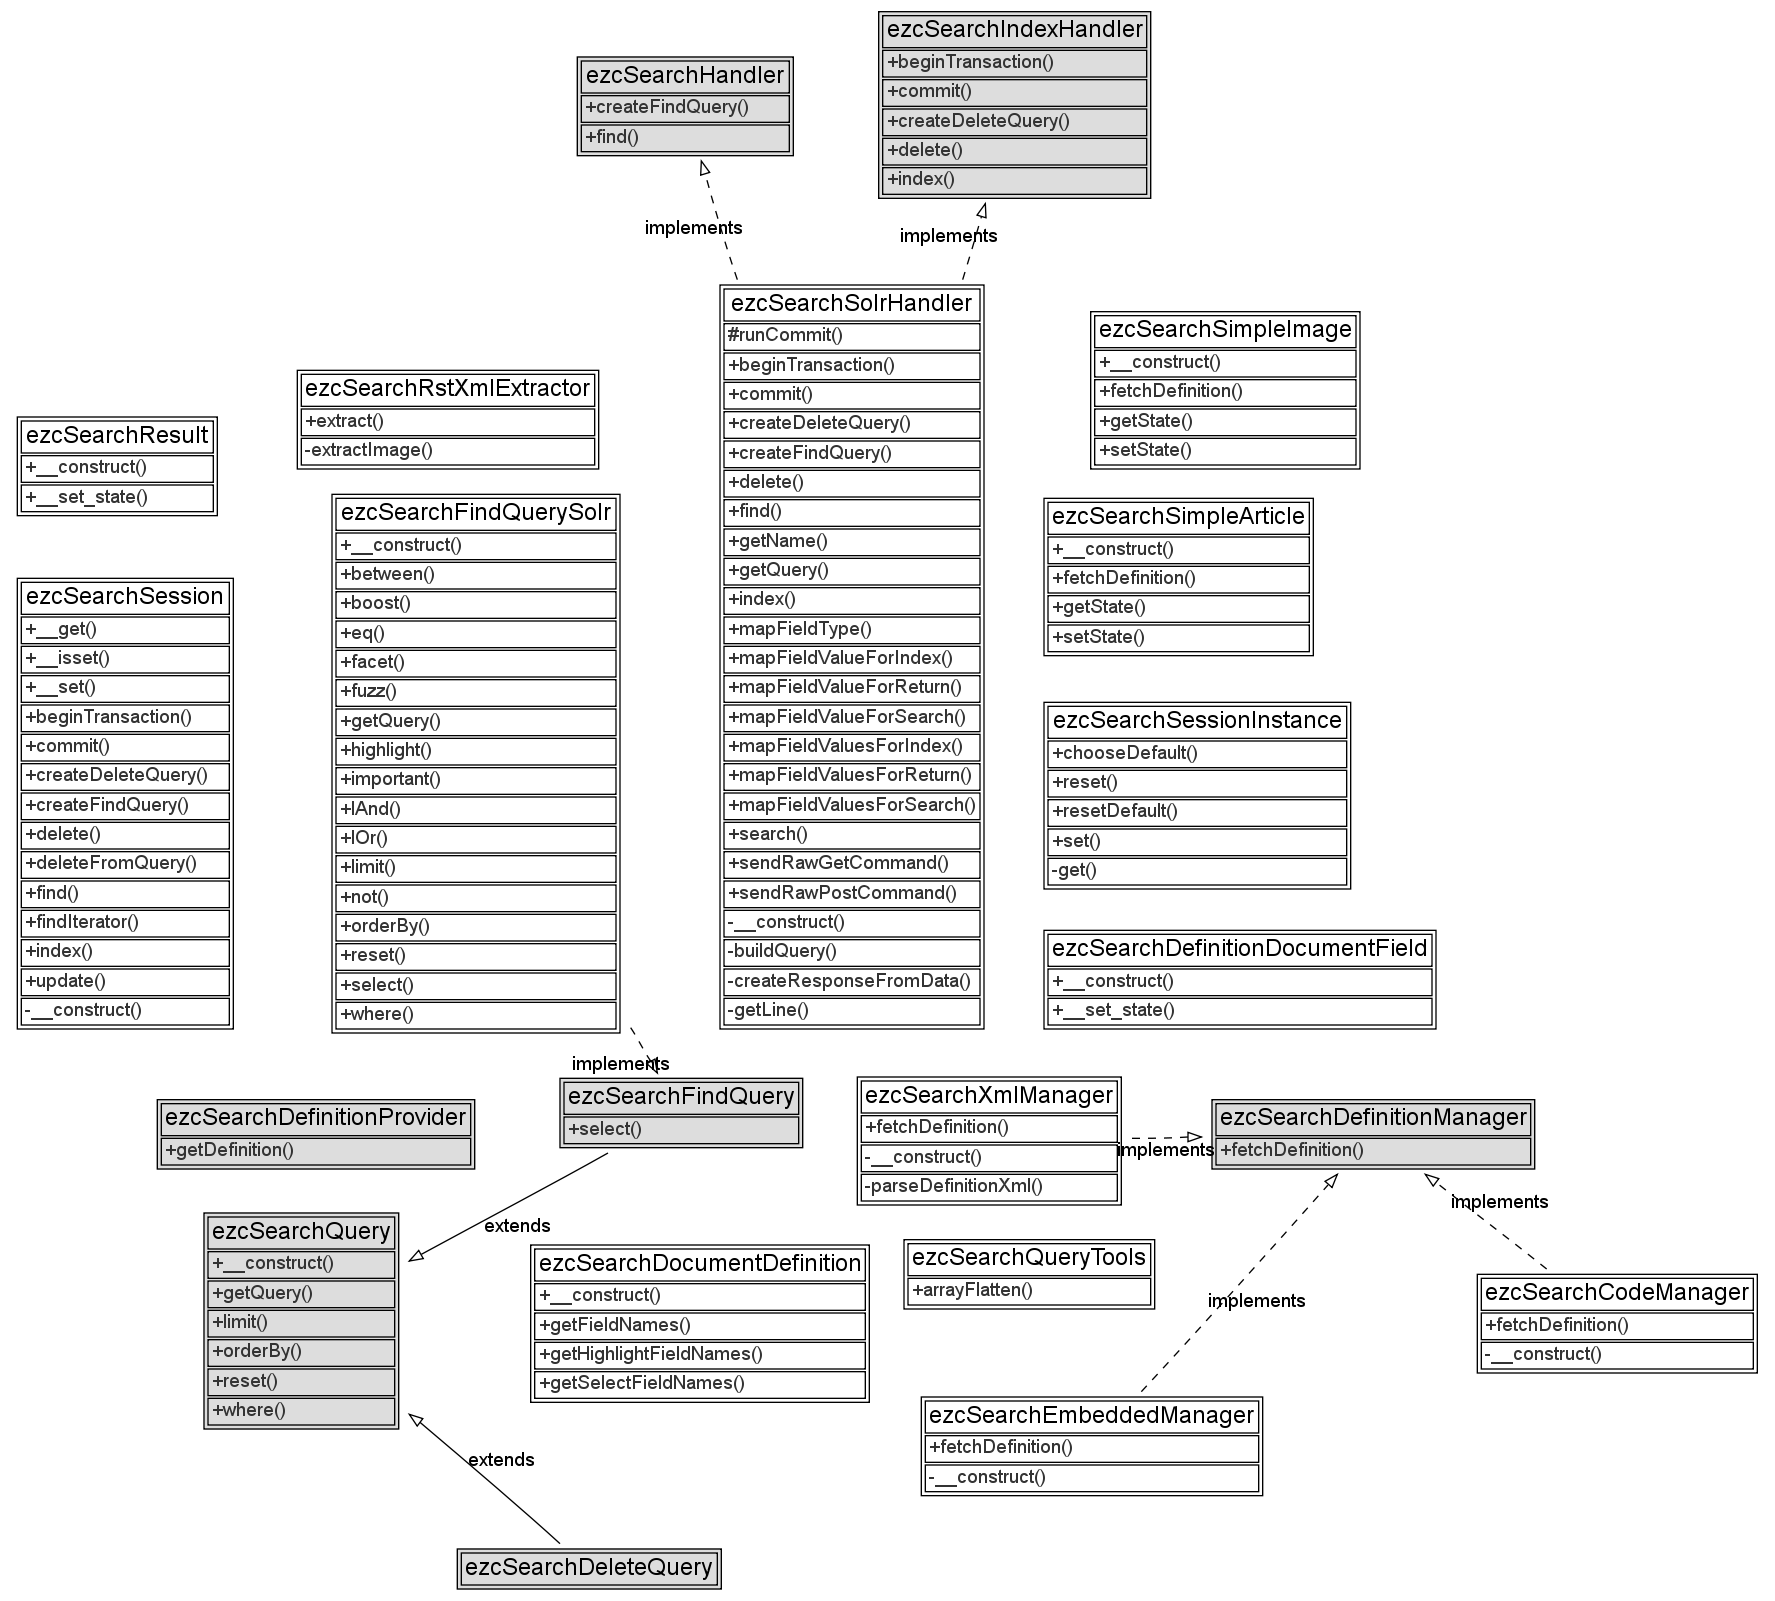
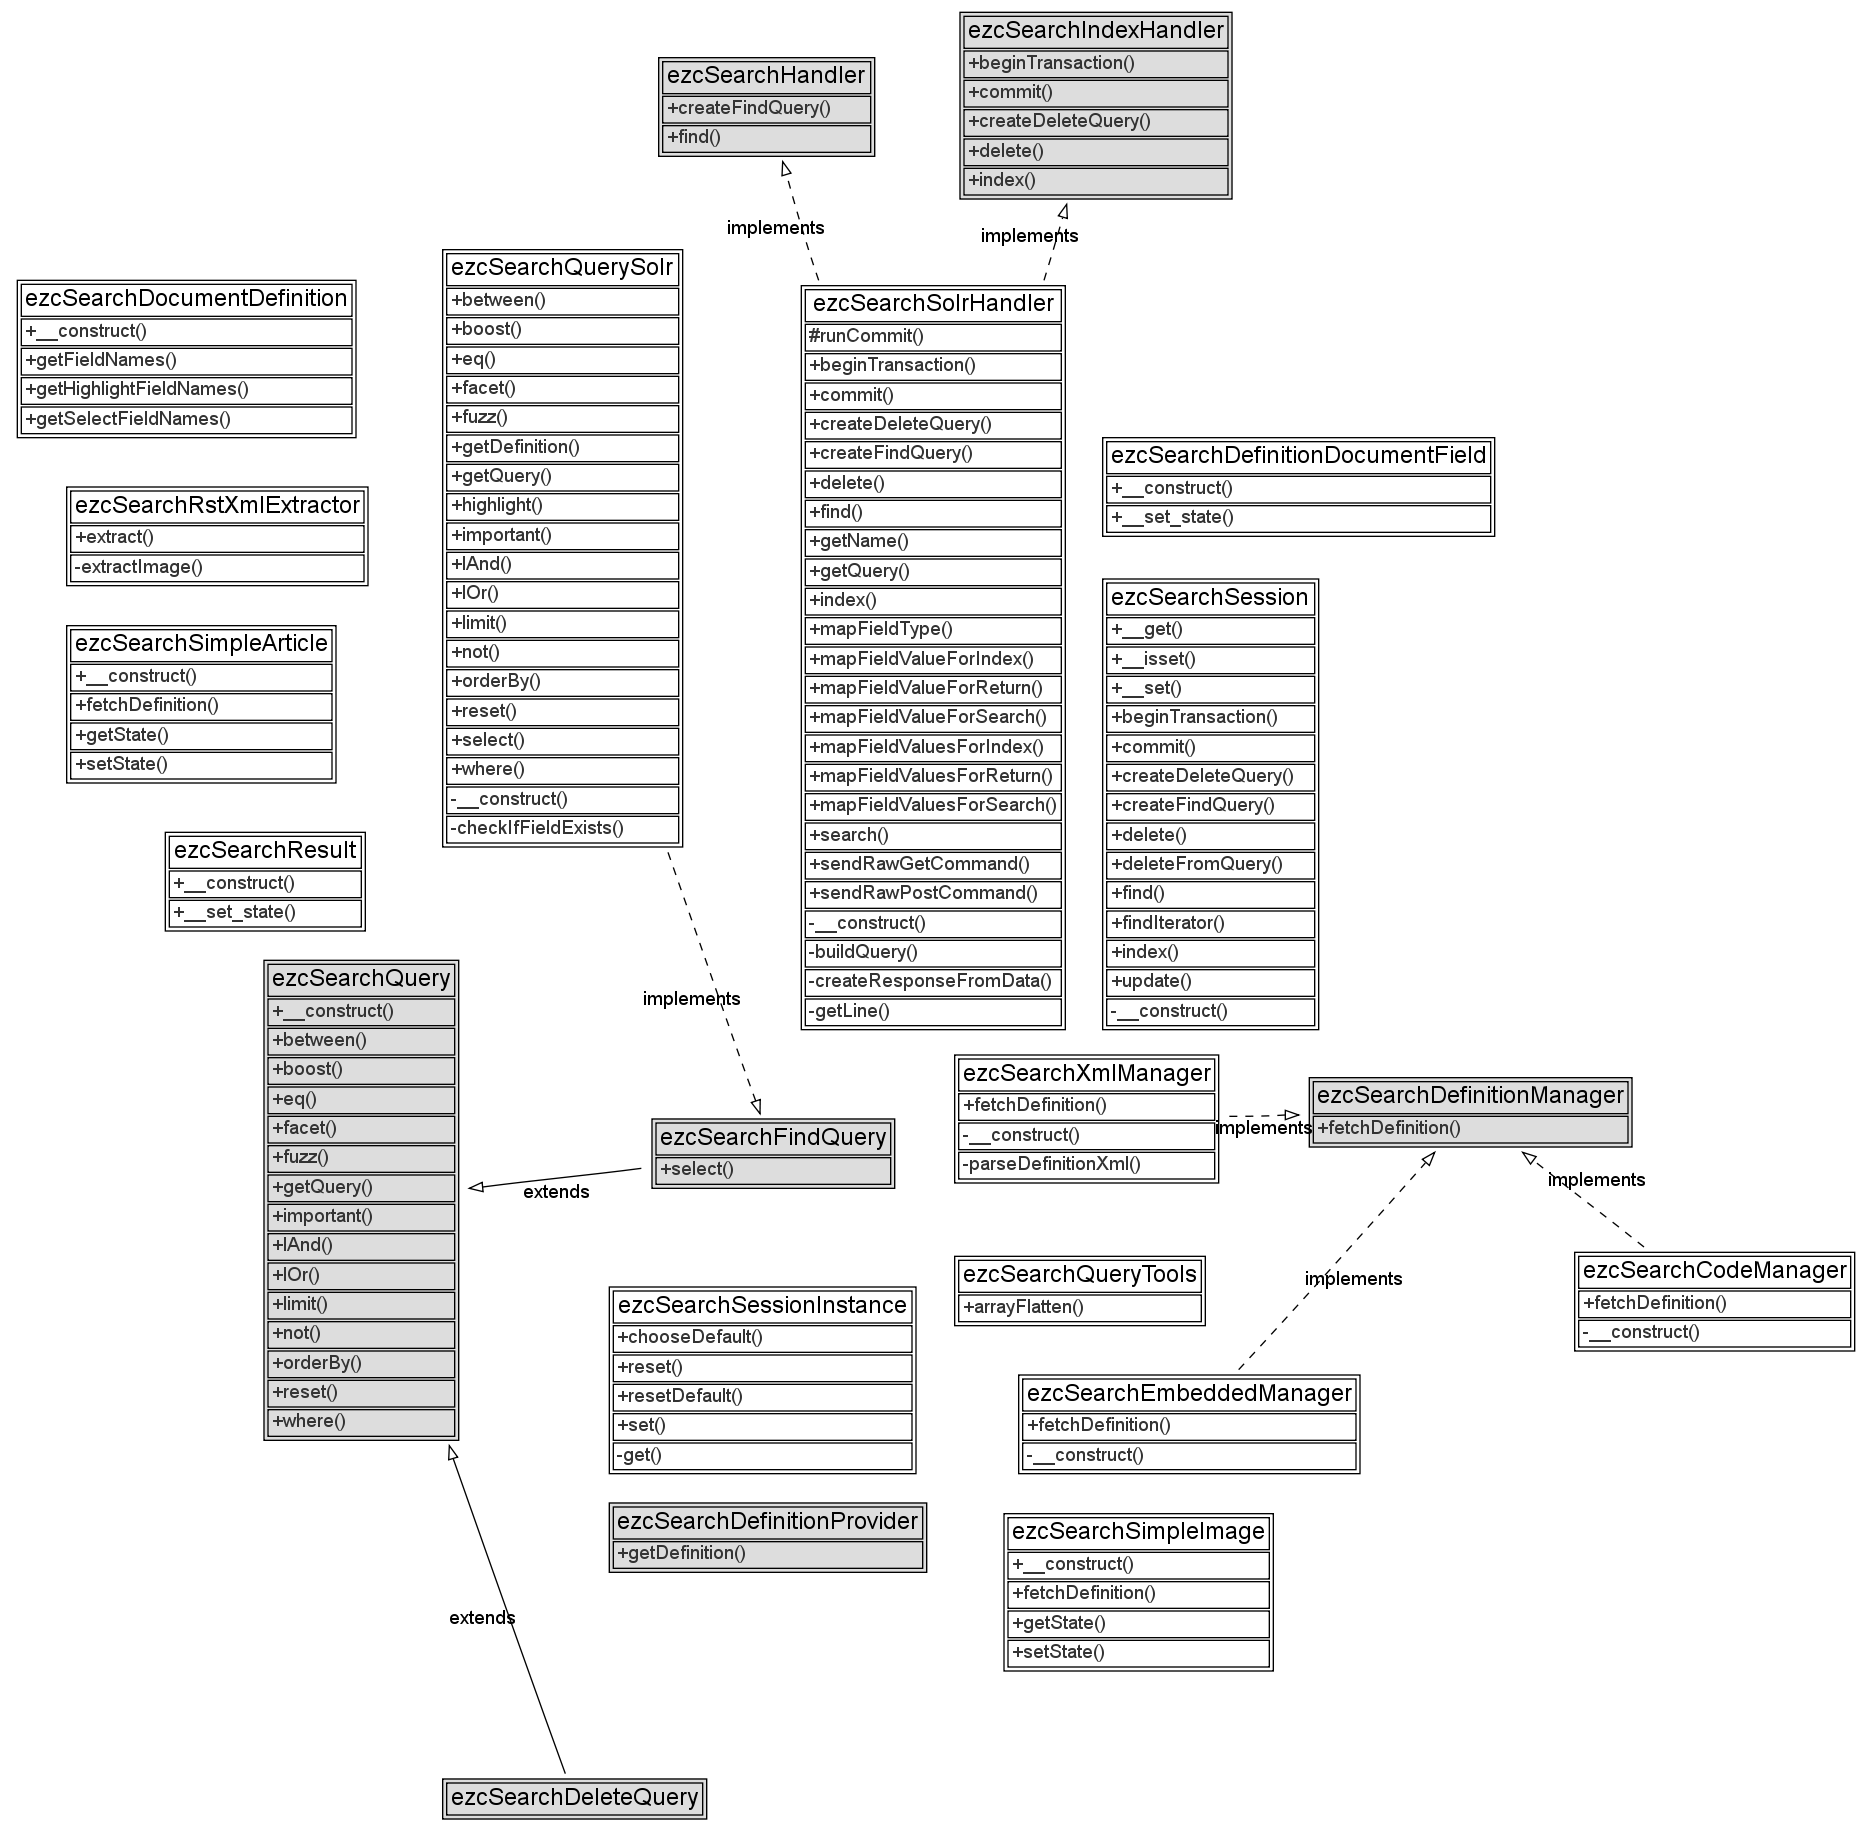
- Move the interfaces to the correct place.
git-svn-id: https://svn.apache.org/repos/asf/incubator/zetacomponents/trunk@975127 13f79535-47bb-0310-9956-ffa450edef68

Changed region(s): [[0.0, 0.0, 0.9915, 0.9994]]

diff --git a/Search/src/search_autoload.php b/Search/src/search_autoload.php
@@ -19,15 +19,15 @@ return array(
     'ezcSearchFieldNotDefinedException'             => 'Search/exceptions/field_not_defined.php',
     'ezcSearchQueryVariableParameterException'      => 'Search/exceptions/query_variable_parameter.php',
     'ezcSearchTransactionException'                 => 'Search/exceptions/transaction.php',
-    'ezcSearchQuery'                                => 'Search/abstraction/query.php',
+    'ezcSearchQuery'                                => 'Search/interfaces/query.php',
     'ezcSearchDefinitionManager'                    => 'Search/interfaces/definition_manager.php',
-    'ezcSearchFindQuery'                            => 'Search/abstraction/query_find.php',
+    'ezcSearchFindQuery'                            => 'Search/interfaces/query_find.php',
     'ezcSearchHandler'                              => 'Search/interfaces/handler.php',
     'ezcSearchIndexHandler'                         => 'Search/interfaces/index_handler.php',
     'ezcSearchCodeManager'                          => 'Search/managers/code_manager.php',
     'ezcSearchDefinitionDocumentField'              => 'Search/structs/document_field_definition.php',
     'ezcSearchDefinitionProvider'                   => 'Search/interfaces/definition_provider.php',
-    'ezcSearchDeleteQuery'                          => 'Search/abstraction/query_delete.php',
+    'ezcSearchDeleteQuery'                          => 'Search/interfaces/query_delete.php',
     'ezcSearchDocumentDefinition'                   => 'Search/document_definition.php',
     'ezcSearchEmbeddedManager'                      => 'Search/managers/embedded_manager.php',
     'ezcSearchQuerySolr'                            => 'Search/abstraction/implementations/solr.php',
